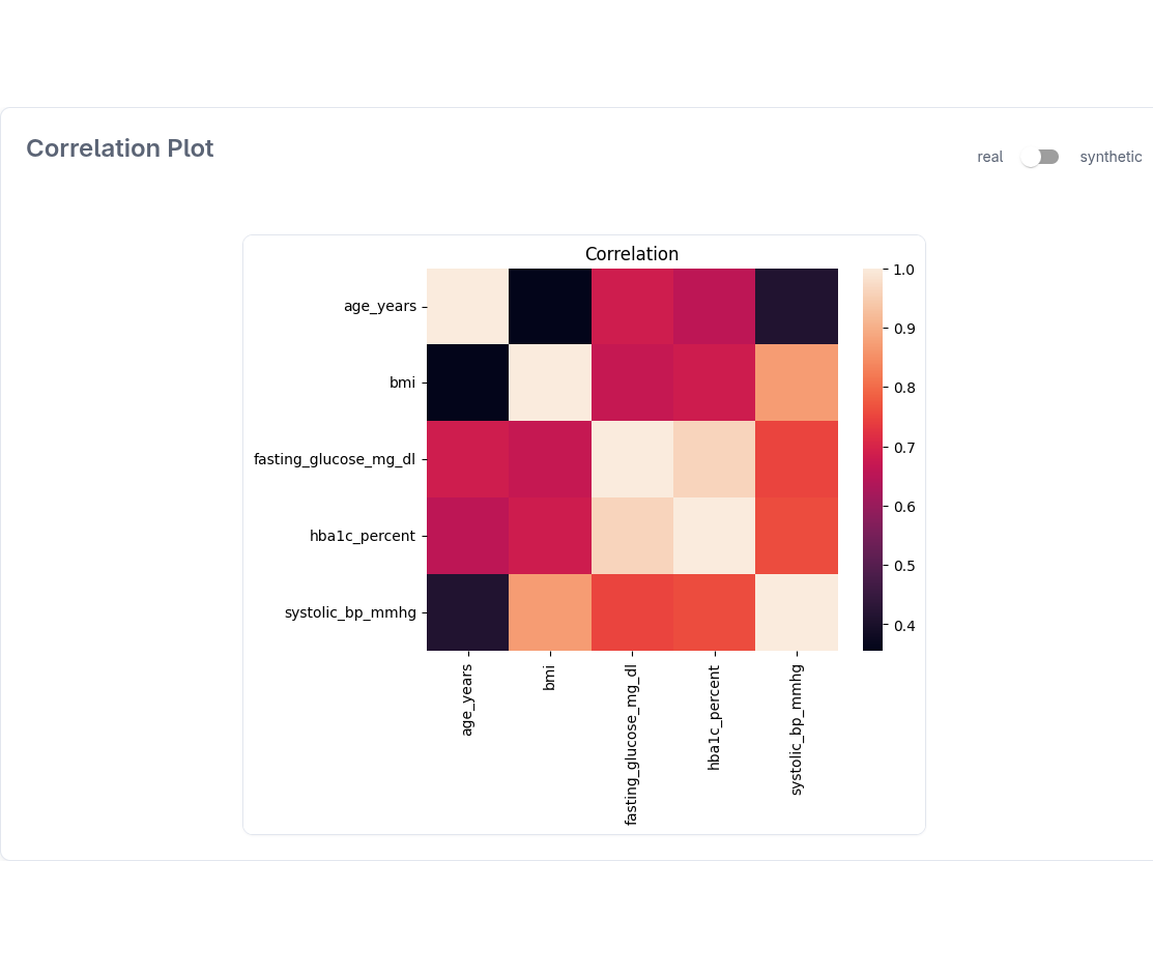
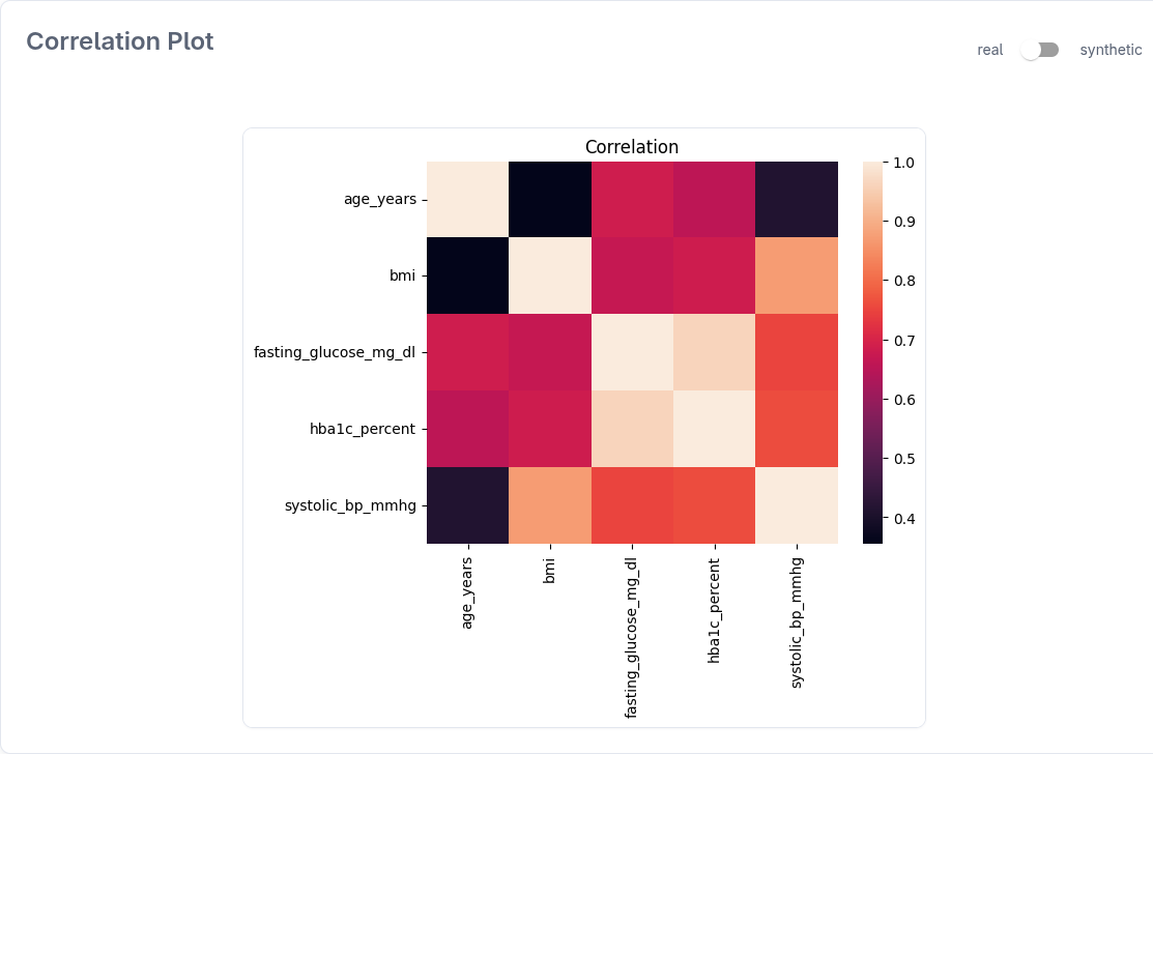
docs: update README

diff --git a/README.md b/README.md
@@ -28,10 +28,10 @@ identify outliers and features that differ between original and synthetic data.
       <br>Quality and privacy scores
     </td>
     <td width="50%" valign="top">
-      <a href="docs/images/syndat-dashboard-input.png">
-        <img src="docs/images/syndat-dashboard-input.png" alt="CSV upload forms, result processing controls, and named result storage" width="100%">
+      <a href="docs/images/syndat-dashboard-scatter.png">
+        <img src="docs/images/syndat-dashboard-scatter.png" alt="Patient distribution view with original records in blue and synthetic records in orange, including the view controls and legend" width="100%">
       </a>
-      <br>Data upload and processing
+      <br>Patient distributions
     </td>
   </tr>
   <tr>
@@ -46,20 +46,6 @@ identify outliers and features that differ between original and synthetic data.
         <img src="docs/images/syndat-dashboard-correlations.png" alt="Correlation heatmap with controls for switching between reference and synthetic data" width="100%">
       </a>
       <br>Correlations
-    </td>
-  </tr>
-  <tr>
-    <td width="50%" valign="top">
-      <a href="docs/images/syndat-dashboard-scatter.png">
-        <img src="docs/images/syndat-dashboard-scatter.png" alt="Patient distribution view with original records in blue and synthetic records in orange, including the view controls and legend" width="100%">
-      </a>
-      <br>Patient distributions
-    </td>
-    <td width="50%" valign="top">
-      <a href="docs/images/syndat-dashboard-summary.png">
-        <img src="docs/images/syndat-dashboard-summary.png" alt="Grouped bar chart comparing three quality scores across two simulated datasets" width="100%">
-      </a>
-      <br>Quality comparison
     </td>
   </tr>
 </table>
